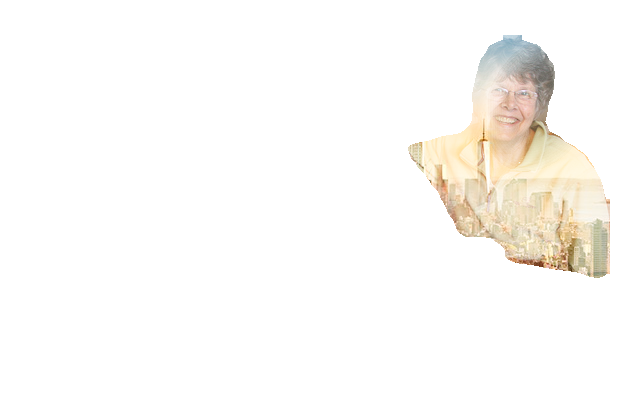
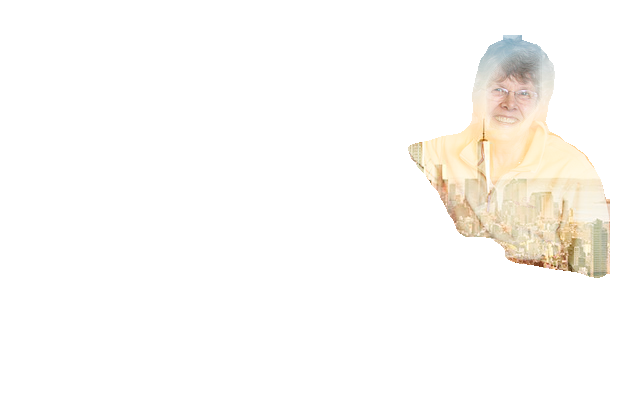
modified:   background_filter.png 	modified:   dbexpos_image.png 	modified:   plot.png 	modified:   visualize.py

Changed region(s): [[0.75, 0.1197, 0.875, 0.419]]

diff --git a/visualize.py b/visualize.py
@@ -169,14 +169,15 @@ def display_instances(image, background, i, boxes, masks, class_ids, class_names
     
     b = np.load('image_shape.npy')
     bboxes = np.load('bboxes.npy') 
-    y_product = b[0]/60
-    x_product = b[1]/60
+    y_product = b[0]/96
+    x_product = b[1]/96
     min_x ,min_y,max_x,max_y = bboxes[:4]
-    Leye_x = np.floor((96-y_pred[0])*x_product+min_x)
+    print(bboxes,"bboxes")
+    Leye_x = np.floor(y_pred[0]*x_product+min_x)
     Leye_y = np.floor((96-y_pred[1])*y_product+min_y)
-    nose_x = np.ceil((96-y_pred[20])*x_product+min_x)
+    nose_x = np.ceil(y_pred[20]*x_product+min_x)
     nose_y = np.ceil((96-y_pred[21])*y_product+min_y)
-    mouse_x = np.ceil((96-y_pred[26])*x_product+min_x)
+    mouse_x = np.ceil(y_pred[26]*x_product+min_x)
     mouse_y = np.ceil((96-y_pred[27])*y_product+min_y)
     print("face",Leye_x,Leye_y,nose_x,nose_y,mouse_x,mouse_y)
     #print(Leye_x,Leye_y,nose_x,nose_y,masked_image.shape[0],masked_image.shape[1])
